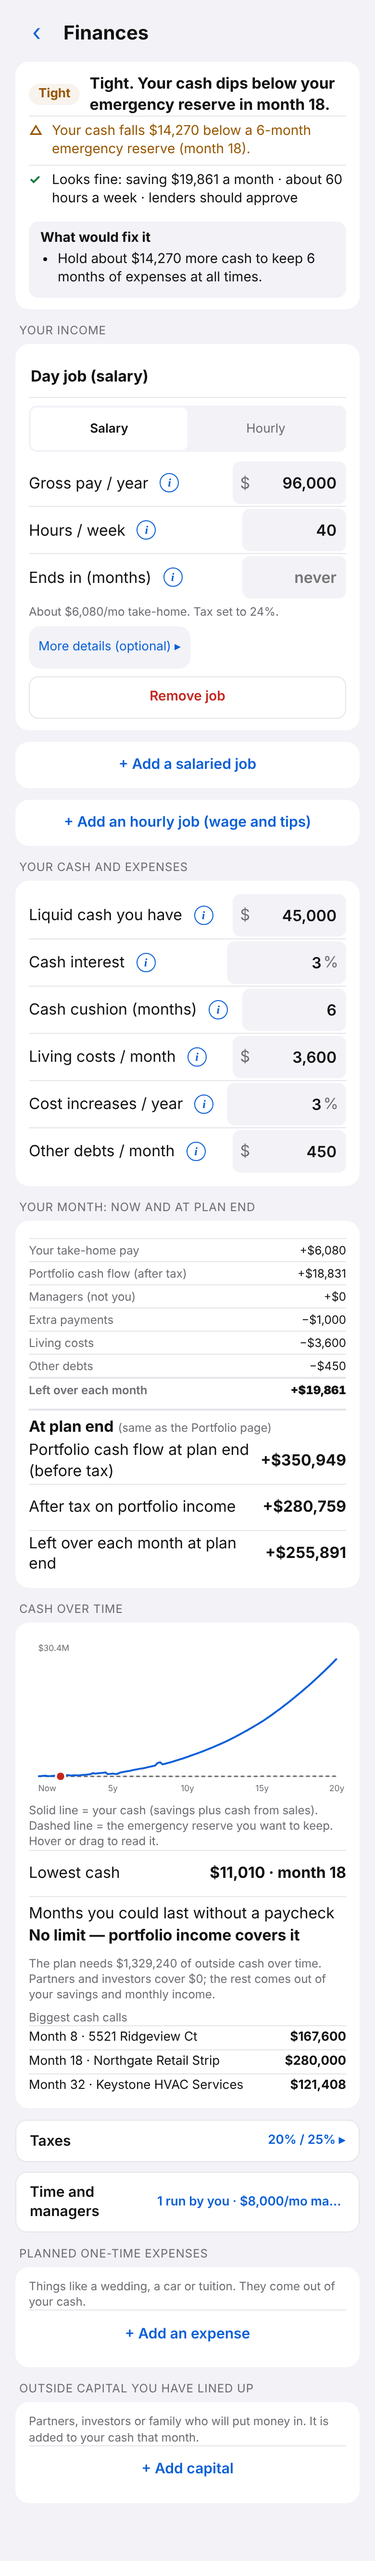
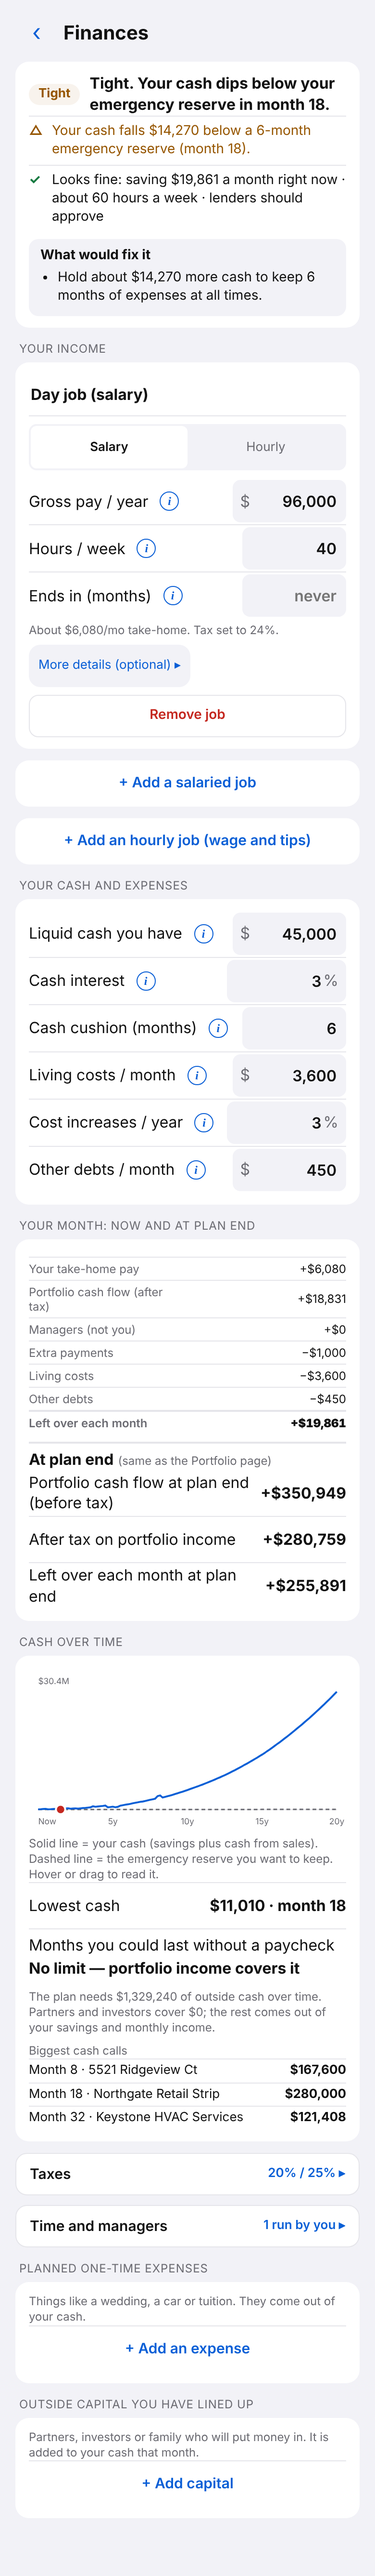
Design round 7: complete one-line loan descriptions, shorter summaries, clipped text fixes
Claude-Session: https://claude.ai/code/session_01T1SyQgdTcpALEohR2VebD5

diff --git a/prototype/v4/artifact.html b/prototype/v4/artifact.html
@@ -212,6 +212,12 @@ table.cmp td:first-child{white-space:nowrap}
 [data-testid=confirm-add]{position:sticky;bottom:12px;z-index:5;box-shadow:0 4px 14px rgba(0,0,0,.18)}
 .sec.cs .cx{white-space:nowrap;overflow:hidden;text-overflow:ellipsis;max-width:60%}
 
+.src.missing{color:var(--ink);opacity:.75}
+.row .pay{font-size:12px}.row .pay .tag{font-size:10px;margin-left:0;margin-right:4px}
+table.cmp td:first-child{white-space:normal;width:44%}
+select.notarget{max-width:9em}
+.lst .loanopt{padding-bottom:12px}[data-testid=loan-options]{padding-bottom:16px}
+
 </style>
 <main id="app" aria-live="polite"></main>
 <script>
@@ -488,7 +494,7 @@ table.cmp td:first-child{white-space:nowrap}
       reasons.push({ sev: 'bad', text: 'You run out of cash in month ' + firstShort + ' and would be about ' + money(short) + ' short at the lowest point (month ' + minM + ').' });
       fixes.push('Line up at least ' + money(short) + ' more (partners, investors, family) before month ' + firstShort + (c && c.assets.length ? ', when ' + c.assets.join(' and ') + ' closes' : '') + ', or push those purchases later.'); }
     if (R.net[0] < -0.5) { if (status === 'yes') status = 'tight'; reasons.push({ sev: 'warn', text: 'You spend ' + money(-R.net[0]) + ' a month more than you bring in right now.' }); reasons[reasons.length - 1].short = 'You spend more than you earn each month.'; fixes.push('Close the ' + money(-R.net[0]) + '/mo gap: raise income, cut living costs, or trim extra payments (' + money(R.extra[0]) + '/mo now).'); }
-    else reasons.push({ sev: 'ok', short: 'saving ' + money(R.net[0]) + ' a month', text: 'You save about ' + money(R.net[0]) + ' a month after living costs, debts and extra payments.' });
+    else reasons.push({ sev: 'ok', short: 'saving ' + money(R.net[0]) + ' a month right now', text: 'You save about ' + money(R.net[0]) + ' a month after living costs, debts and extra payments.' });
     let peakH = 0, peakHM = 0; for (let t = 0; t <= T; t++) if (R.hours[t] > peakH) { peakH = R.hours[t]; peakHM = t; }
     const peakBiz = Math.max.apply(null, R.nBiz), gmMax = Math.max.apply(null, R.gm);
     if (peakH > 70) { if (status === 'yes') status = 'tight'; reasons.push({ sev: 'warn', short: 'The hours do not fit in a week around month ' + peakHM + '.', text: 'At the busiest point (month ' + peakHM + ') you would work about ' + Math.round(peakH) + ' hours a week between your job and running ' + Math.min(p.operating, peakBiz) + ' business(es) yourself.' }); fixes.push('Hire a general manager for a business, drop a job, or sell a business sooner. Each manager costs about ' + money(p.gmMonthly) + '/mo.'); }
@@ -749,7 +755,7 @@ table.cmp td:first-child{white-space:nowrap}
 
   /* ---------- reusable bits ---------- */
   const field = (label, p, val, o = {}) => `<label class="f ${o.calc ? 'calc' : ''}"><span class="lb">${label}${infoBtn(o.info || GL.LABEL[label])}${o.calc ? ' <i class="auto" title="calculated from your other numbers — tap to override">auto</i>' : ''}</span><span class="iw">${o.pre ? `<em>${o.pre}</em>` : ''}<input inputmode="decimal" data-p="${p}" data-k="${p}" aria-label="${esc(label)}" ${o.ro ? 'readonly tabindex="-1"' : ''} ${o.ph ? 'placeholder="' + esc(o.ph) + '"' : ''} value="${val}">${o.suf ? `<em>${o.suf}</em>` : ''}</span></label>`;
-  const targetSel = (h) => `<select data-sel="${h.id}" class="${h.target ? '' : 'notarget'}" aria-label="Line of credit on ${esc(h.addr)} funds">${'<option value="">None · tap to choose</option>' + S.houses.filter((x) => x.id !== h.id).map((x) => `<option value="${x.id}" ${h.target === x.id ? 'selected' : ''}>${esc(x.addr)}</option>`).join('')}</select>`;
+  const targetSel = (h) => `<select data-sel="${h.id}" class="${h.target ? '' : 'notarget'}" aria-label="Line of credit on ${esc(h.addr)} funds">${'<option value="">Choose…</option>' + S.houses.filter((x) => x.id !== h.id).map((x) => `<option value="${x.id}" ${h.target === x.id ? 'selected' : ''}>${esc(x.addr)}</option>`).join('')}</select>`;
   const kpi = (id, label, val, sub, cls, sm) => `<div class="kpi ${sm ? 'sm' : ''}"><small>${label}${infoBtn(GL.LABEL[label])}</small><b class="${cls || ''}" data-testid="${id}" data-k="${id}">${val}</b>${sub ? `<span class="sub">${sub}</span>` : ''}</div>`;
 
   const CDEF = {};
@@ -832,7 +838,7 @@ table.cmp td:first-child{white-space:nowrap}
     const soldN = S.houses.filter((h) => pl.exits[h.id] && pl.sellAt[h.id] <= pl.planM).length;
     const breakdown = `<table class="cmp" data-testid="breakdown"><thead><tr><th></th><th>Value</th><th>Equity</th><th>Cash flow/mo</th></tr></thead><tbody>
       ${['house', 'commercial', 'business'].map((tp) => { const o = bt(tp); return o.n ? bRow(TPL[tp] + ' (' + o.n + ')', o) : ''; }).join('')}
-      ${sn.cash > 0.5 ? bRow('Cash from selling' + (soldN ? ' (' + soldN + ' assets)' : ''), { value: sn.cash, equity: sn.cash, cf: 0 }) : ''}
+      ${sn.cash > 0.5 ? bRow('Sold' + (soldN ? ' (' + soldN + ')' : ''), { value: sn.cash, equity: sn.cash, cf: 0 }) : ''}
       ${bRow('Portfolio', { value: pl.snap.reduce((a, x) => a + x.value, 0), equity: sn.nw, cf: sn.cf }, 'tot')}</tbody></table>`;
     const warn = pl.unfunded.length ? `<div class="warnbox">⚠ ${pl.unfunded.length} planned asset${pl.unfunded.length > 1 ? 's are' : ' is'} never funded under the current numbers.</div>` : '';
     const health = pl.worst.dti > g.dti ? `<div class="warnbox">⚠ Debt-to-income peaks at ${r(pl.worst.dti)}% in ${mo(pl.worst.month)} (limit ${g.dti}%).</div>` : '';
@@ -848,7 +854,7 @@ table.cmp td:first-child{white-space:nowrap}
     ${undo ? `<div class="warnbox okbox" data-testid="undo-banner">Removed ${esc(undo.label)}. <button class="chip link" data-undo>Undo</button></div>` : ''}
     ${storageOK ? '' : '<div class="warnbox">⚠ Storage is unavailable, so changes will not be saved. Export a backup from Assumptions.</div>'}
     <section class="card" data-testid="summary"><div class="kg">
-      ${kpi('kpi-networth', 'Net worth', $f(sn.nw), `${n} assets · projected ${yrs} yr out${sn.cash > 0.5 ? ' · incl. ' + $c(sn.cash) + ' from sales' : ''}`)}
+      ${kpi('kpi-networth', 'Net worth', $f(sn.nw), `${n} assets · ${yrs}-yr plan${sn.cash > 0.5 ? ' · incl. ' + $c(sn.cash) + ' from sales' : ''}`)}
       ${kpi('kpi-monthly', 'Total monthly payments', $f(sn.monthly), sn.extra > 0.5 ? `incl. ${$f(sn.extra)} extra` : 'at plan end · sum of the rows below')}
       ${kpi('kpi-cashflow', 'Cash flow / mo', $s(sn.cf), sn.extra > 0.5 ? `${$s(sn.cfx)} after extra` : 'before tax · at plan end', sn.cf < 0 ? 'bad' : '', 1)}
       ${kpi('kpi-dscr', 'DSCR', r(sn.dscr, 2), sn.dscr >= 1.25 ? 'income ÷ loan payments (1.25+ is healthy)' : sn.dscr >= 1 ? 'thin (1.25+ is healthy)' : 'below 1.0', sn.dscr && sn.dscr < 1 ? 'bad' : '', 1)}</div>
@@ -904,11 +910,11 @@ table.cmp td:first-child{white-space:nowrap}
     ${h.listingUrl ? `<p class="note" style="margin:10px 4px 0">Imported from a listing${h.info && h.info.beds ? ' · ' + h.info.beds + ' bd / ' + h.info.baths + ' ba · ' + (h.info.sqft || '?') + ' sqft' : ''}.</p>` : ''}
     <div class="sec"><span>Purchase · <i class="auto">auto</i> = calculated${infoBtn('auto')}</span></div><section class="card">${field(LB.price, P + 'price', grp(h.price), { pre: '$' })}${field('Down payment', P + 'dp', r(h.dp, 2), { suf: '%' })}${field('Down payment $', P + 'down', grp(v.down), { pre: '$', calc: 1 })}${field('Loan amount', P + 'loan', grp(v.L), { pre: '$', calc: 1, ro: 1 })}${field(LB.growth, P + 'growth', r(v.growth, 2), { suf: '%' })}
       ${type === 'commercial' ? field('Cap rate', P + 'caprate', r(v.capRate, 1), { suf: '%', calc: 1, ro: 1 }) : ''}${type === 'business' ? field('Price ÷ yearly profit', P + 'mult', r(v.multiple, 1), { suf: '×', calc: 1, ro: 1 }) : ''}</section>
-    ${colSec('loan', 'Loan', (lo ? lo.name.replace(/\s*\(.*\)/, '') : 'Custom') + ' · ' + r(h.rate, 2) + '%', `<section class="card">${loanSel}${lo || h.io ? `<p class="note">${lo ? esc(lo.note) + ' ' : ''}${h.io ? 'Interest-only: extra payments reduce the balance. Balloon at maturity is not modeled.' : ''}</p>` : '<p class="note">Custom terms. Pick a loan option to auto-fill them.</p>'}${h.ownerOcc ? '<span class="chip warnchip" data-testid="owner-occ">You must live here (owner-occupied)</span>' : ''}${h.loanId === 'k203' && h.capex > 75000 ? '<p class="note" data-testid="k203-cap">⚠ Over the $75,000 Limited 203(k) cap. This rehab needs a Standard 203(k) with a HUD consultant.</p>' : ''}
+    ${colSec('loan', 'Loan option', (lo ? lo.name.replace(/\s*\(.*\)/, '') : 'Custom') + ' · ' + r(h.rate, 2) + '% · ' + r(h.term / 12, 0) + ' yr', `<section class="card">${loanSel}${lo || h.io ? `<p class="note">${lo ? esc(lo.note) + ' ' : ''}${h.io ? 'Interest-only: extra payments reduce the balance. Balloon at maturity is not modeled.' : ''}</p>` : '<p class="note">Custom terms. Pick a loan option to auto-fill them.</p>'}${h.ownerOcc ? '<span class="chip warnchip" data-testid="owner-occ">You must live here (owner-occupied)</span>' : ''}${h.loanId === 'k203' && h.capex > 75000 ? '<p class="note" data-testid="k203-cap">⚠ Over the $75,000 Limited 203(k) cap. This rehab needs a Standard 203(k) with a HUD consultant.</p>' : ''}
       ${field('Interest rate', P + 'rate', r(h.rate, 3), { suf: '%' })}${field('Term (years)', P + 'termY', r(h.term / 12, 2))}${field('Closing costs', P + 'closingPct', r(h.closingPct == null ? g.closing : h.closingPct, 2), { suf: '%' })}${field('Extra / month', P + 'extra', grp(v.X), { pre: '$', calc: h.driver === 'months' && !!t })}${field('Paid off in (months)', P + 'payoff', isFinite(v.payoff) ? v.payoff : '', { calc: 1 })}${field('Other liens', P + 'liens', grp(h.liens), { pre: '$' })}
       <p class="note">${isFinite(v.payoff) ? `Paid off in ${mo(v.payoff)}. ` : h.io ? 'Not paid off until you refinance or sell. ' : 'Payment does not cover interest. '}${v.mip > 0 ? 'Includes ' + $f(v.mip) + '/mo mortgage insurance. ' : ''}Debt now: ${$f(debt)} (${r((debt / (v.valueNow || h.price)) * 100)}% of today's value).${v.cltvAtLoc != null ? ` When its line of credit opens: ${r(v.cltvAtLoc)}% (cap ${g.cap}%).` : ''}</p>${v.cltvAtLoc != null && v.cltvAtLoc > g.cap + 0.01 ? '<span class="chip warnchip">Over the debt cap</span>' : ''}</section>`, true)}
     ${colSec('rent', LB.sec, type === 'business' ? 'profit ' + $f(h.rent) : 'rent ' + $f(h.rent) + ' · costs ' + $f(h.tax + h.ins + h.hoa), `<section class="card">${income}</section>`, true)}
-    ${colSec('loc', 'Line of credit strategy', t ? 'funds ' + t.addr + ' · opens ' + (isFinite(p0 + v.locM) ? mm(p0 + v.locM) : 'never') : 'not set', `<section class="card"><div class="f stack"><span class="lb">Funds</span>${targetSel(h)}</div>
+    ${colSec('loc', 'Line of credit strategy', t ? 'opens ' + (isFinite(p0 + v.locM) ? mm(p0 + v.locM) : 'never') : 'not set', `<section class="card"><div class="f stack"><span class="lb">Funds</span>${targetSel(h)}</div>
       ${t ? `${field('Cash needed', P + 'need', grp(v.D), { pre: '$', calc: 1, ro: 1 })}${field('Months until LOC', P + 'wait', isFinite(v.locM) ? v.locM : '', { calc: h.driver === 'extra' })}
       <div class="f"><span class="lb">Opens (from today)</span><b>${isFinite(p0 + v.locM) ? mm(p0 + v.locM) : 'never'}</b></div>
       ${v.infeasible ? '<p class="note">⚠ That wait is not reachable, even with the loan fully paid.</p>' : ''}${a.cls === 'warn' || a.cls === 'bad' ? `<span class="chip warnchip" title="${esc(a.why || '')}">Debt-to-income ${a.cls === 'bad' ? 'over' : 'near'} your limit when ${esc(t.addr)} closes</span>` : ''}${sooner > 0 ? `<span class="chip">+$100/mo → ${sooner} mo sooner</span>` : ''}` : '<p class="note">Pick the asset this line of credit will fund.</p>'}</section>`, true)}
@@ -968,7 +974,7 @@ table.cmp td:first-child{white-space:nowrap}
       <p class="note" data-testid="funding-line">The plan needs ${$f(pl.outsideTotal)} of outside cash over time. Partners and investors cover ${$f(Math.min(k.totalOutside, k.capitalTotal))}; the rest comes out of your savings and monthly income.</p>
       ${calls ? `<p class="note" style="margin-top:8px">Biggest cash calls</p>${calls}` : ''}</section>
     ${colSec('fin-tax', 'Taxes', p.portfolioTaxPct + '% / ' + p.salesTaxPct + '%', `<section class="card">${field('Tax on portfolio income', 'p.portfolioTaxPct', r(p.portfolioTaxPct, 1), { suf: '%' })}${field('Tax on gains when you sell', 'p.salesTaxPct', r(p.salesTaxPct, 1), { suf: '%' })}<p class="note">Rough effective rates. Short-term gains from flips are taxed like ordinary income.</p></section>`, true)}
-    ${colSec('fin-time', 'Time and managers', p.operating + ' run by you · ' + $f(p.gmMonthly) + '/mo manager', `<section class="card">${field('Businesses you run yourself', 'p.operating', p.operating)}${field('Hours / week each takes', 'p.bizHours', r(p.bizHours, 0))}${field('Manager pay per other business / mo', 'p.gmMonthly', grp(p.gmMonthly), { pre: '$' })}<p class="note">A business profit figure assumes the owner does the work. Businesses beyond the ones you run need a paid manager.</p></section>`, true)}
+    ${colSec('fin-time', 'Time and managers', p.operating + ' run by you', `<section class="card">${field('Businesses you run yourself', 'p.operating', p.operating)}${field('Hours / week each takes', 'p.bizHours', r(p.bizHours, 0))}${field('Manager pay per other business / mo', 'p.gmMonthly', grp(p.gmMonthly), { pre: '$' })}<p class="note">A business profit figure assumes the owner does the work. Businesses beyond the ones you run need a paid manager.</p></section>`, true)}
     <div class="sec">Planned one-time expenses</div><section class="card">${p.planned.length ? p.planned.map((it) => listRow('pl', it, 'Expense')).join('') : '<p class="note" style="margin:0">Things like a wedding, a car or tuition. They come out of your cash.</p>'}<button class="addrow" data-addplanned data-testid="add-planned">+ Add an expense</button></section>
     <div class="sec">Outside capital you have lined up</div><section class="card">${p.capital.length ? p.capital.map((it) => listRow('cap', it, 'Capital')).join('') : '<p class="note" style="margin:0">Partners, investors or family who will put money in. It is added to your cash that month.</p>'}<button class="addrow" data-addcap data-testid="add-capital">+ Add capital</button></section>`;
   }
@@ -979,7 +985,7 @@ table.cmp td:first-child{white-space:nowrap}
     const blurb = { house: 'A single-family rental or primary home.', commercial: 'Retail, office, storage or industrial. Valued on rent and cap rate.', business: 'An operating business you buy. Valued on owner profit and growth.' }[tp];
     return `<div class="top"><button class="ic" data-go="" aria-label="Cancel and go back">‹</button><h2>Add to portfolio</h2></div>
     <section class="card"><div class="seg" role="tablist">${['house', 'commercial', 'business'].map((x) => `<button data-addtype="${x}" class="${x === tp ? 'on' : ''}">${TL[x]}</button>`).join('')}</div><p class="note">${blurb} You will set the price and income on the next screen.</p>${tp === 'house' ? '<button class="linkbtn" data-go="import/new">Have a Zillow listing? Import it from a file</button>' : ''}</section>
-    <div class="sec">Pick a loan option</div><section class="card" data-testid="loan-options">${(() => { const one = (l) => `<div class="loanrow"><button class="loanopt ${l.id === sel ? 'on' : ''}" data-pickloan="${l.id}" aria-pressed="${l.id === sel}"><b>${esc(l.name.replace(/\s*\(you live there\)/i, ''))}</b><span>${l.dp >= 100 ? 'No loan · pay the full price' : l.dp + '% down · ' + l.rate + '% · ' + (l.io ? 'interest-only, ' : '') + r(l.term / 12, 1) + ' yr'}${l.finRehab ? ' · rehab financed' : ''}</span>${l.dp >= 100 ? '' : `<small>${esc(l.note)}</small>`}</button>${infoBtn(GL.LOAN[l.id])}</div>`; const inv = list.filter((l) => !l.ownerOcc), live = list.filter((l) => l.ownerOcc); return inv.map(one).join('') + (live.length ? `<p class="note" style="margin:10px 4px 2px"><b>If you will live there</b><br>FHA and 203(k) loans need you to move in.</p>` + live.map(one).join('') : ''); })()}</section>
+    <div class="sec">Pick a loan option</div><section class="card" data-testid="loan-options">${(() => { const one = (l) => `<div class="loanrow"><button class="loanopt ${l.id === sel ? 'on' : ''}" data-pickloan="${l.id}" aria-pressed="${l.id === sel}"><b>${esc(l.name.replace(/\s*\(you live there\)/i, ''))}</b><span>${l.dp >= 100 ? 'No loan · pay the full price' : l.dp + '% down · ' + l.rate + '% · ' + (l.io ? 'interest-only, ' : '') + r(l.term / 12, 1) + ' yr'}</span>${l.dp >= 100 ? '' : `<small>${esc(l.note.split(/(?<=\.)\s/)[0])}</small>`}</button>${infoBtn(GL.LOAN[l.id])}</div>`; const inv = list.filter((l) => !l.ownerOcc), live = list.filter((l) => l.ownerOcc); return inv.map(one).join('') + (live.length ? `<p class="note" style="margin:10px 4px 2px"><b>If you will live there</b><br>FHA and 203(k) loans need you to move in.</p>` + live.map(one).join('') : ''); })()}</section>
     <button class="btn" style="width:100%" data-confirm-add="${tp}|${sel}" data-testid="confirm-add">Add ${TL[tp].toLowerCase()}</button>`;
   }
 
@@ -989,7 +995,7 @@ table.cmp td:first-child{white-space:nowrap}
     return `<div class="top"><button class="ic" data-go="" aria-label="Back">‹</button><h2>Assumptions</h2></div>
     <p class="note" style="margin:0 4px 6px">Defaults work for most people. Change them when you know your lender.</p>
     <div class="sec">Borrowing</div><section class="card">${F('Max loan vs value', 'cap', { suf: '%' })}${F('Appraisal cut', 'haircut', { suf: '%' })}${F('Closing costs', 'closing', { suf: '%' })}${F('Line of credit rate', 'hrate', { suf: '%' })}<p class="note">Appraisal cut: what lenders subtract from a home's value. Rent counted: the share of rent lenders accept as income.</p></section>
-    <div class="sec">Who helps you qualify</div><section class="card">${F('Co-signer 1 / yr', 'p1', { pre: '$' })}${F('Co-signer 2 / yr', 'p2', { pre: '$' })}<p class="note">Co-signers help you qualify for loans. Their income counts toward the lender's limit.</p>${F('Debt-to-income limit', 'dti', { suf: '%' })}${F('Rent counted', 'rentCount', { suf: '%' })}${F('Other monthly debts', 'otherDebt', { pre: '$' })}</section>
+    <div class="sec">Who helps you qualify</div><section class="card">${F('Co-signer 1 / yr', 'p1', { pre: '$' })}${F('Co-signer 2 / yr', 'p2', { pre: '$' })}<p class="note">Leave 0 if none. Co-signers help you qualify for loans. Their income counts toward the lender's limit.</p>${F('Debt-to-income limit', 'dti', { suf: '%' })}${F('Rent counted', 'rentCount', { suf: '%' })}${F('Other monthly debts', 'otherDebt', { pre: '$' })}</section>
     <div class="sec">Operating costs</div><section class="card">${F('Vacancy', 'vac', { suf: '%' })}${F('Management (of rent)', 'mgmt', { suf: '%' })}${F('Repairs / yr', 'maint', { suf: '%' })}${F('Growth / yr', 'appr', { suf: '%' })}${F('Projection length (years)', 'planYears', {})}</section>
     ${colSec('backup', 'Backup and restore', 'on this device', `<section class="card">
       ${notice ? `<div class="warnbox">${esc(notice)}</div>` : ''}
@@ -1035,7 +1041,7 @@ Money is US dollars as plain numbers. taxAnnual and insuranceAnnual are per YEAR
     <section class="card"><p class="note" style="margin:0 0 6px">Takes about a minute. Claude reads the listing for you.</p><ol class="steps"><li>Copy the prompt.</li><li>Paste it into a Claude chat with your Zillow link. If Claude cannot open the page, paste the listing text or screenshots instead.</li><li>Save Claude's reply as a <code>.json</code> file and choose it below.</li></ol>
       <button class="btn plain" data-copyprompt data-testid="copy-prompt">Copy Claude prompt</button><p class="note" id="cpm"></p>
       <details><summary class="note" style="font-size:14px;padding:8px 0">Show the prompt</summary><pre class="pre">${esc(PROMPT)}</pre></details>
-      <label class="btn filebtn" style="margin-top:8px">Choose listing file<input type="file" accept=".json,application/json,text/plain" hidden data-listing-file data-testid="import-listing-file" aria-label="Choose listing file"></label>
+      <label class="btn ${res && res.ok ? 'plain ' : ''}filebtn" style="margin-top:8px">${res && res.ok ? 'Choose a different file' : 'Choose listing file'}<input type="file" accept=".json,application/json,text/plain" hidden data-listing-file data-testid="import-listing-file" aria-label="Choose listing file"></label>
       <button class="linkbtn" data-togglepaste>${UI.paste ? 'Hide pasted text' : 'Or paste the file contents'}</button>
       ${UI.paste ? `<textarea data-listing-text id="lt" rows="4" aria-label="Paste the listing file contents" placeholder="Paste the JSON Claude gave you"></textarea><button class="btn plain" data-read-listing>Read pasted text</button>` : ''}</section>${preview}`;
   }

diff --git a/prototype/v4/app.js b/prototype/v4/app.js
@@ -36,7 +36,7 @@
 
   /* ---------- reusable bits ---------- */
   const field = (label, p, val, o = {}) => `<label class="f ${o.calc ? 'calc' : ''}"><span class="lb">${label}${infoBtn(o.info || GL.LABEL[label])}${o.calc ? ' <i class="auto" title="calculated from your other numbers — tap to override">auto</i>' : ''}</span><span class="iw">${o.pre ? `<em>${o.pre}</em>` : ''}<input inputmode="decimal" data-p="${p}" data-k="${p}" aria-label="${esc(label)}" ${o.ro ? 'readonly tabindex="-1"' : ''} ${o.ph ? 'placeholder="' + esc(o.ph) + '"' : ''} value="${val}">${o.suf ? `<em>${o.suf}</em>` : ''}</span></label>`;
-  const targetSel = (h) => `<select data-sel="${h.id}" class="${h.target ? '' : 'notarget'}" aria-label="Line of credit on ${esc(h.addr)} funds">${'<option value="">None · tap to choose</option>' + S.houses.filter((x) => x.id !== h.id).map((x) => `<option value="${x.id}" ${h.target === x.id ? 'selected' : ''}>${esc(x.addr)}</option>`).join('')}</select>`;
+  const targetSel = (h) => `<select data-sel="${h.id}" class="${h.target ? '' : 'notarget'}" aria-label="Line of credit on ${esc(h.addr)} funds">${'<option value="">Choose…</option>' + S.houses.filter((x) => x.id !== h.id).map((x) => `<option value="${x.id}" ${h.target === x.id ? 'selected' : ''}>${esc(x.addr)}</option>`).join('')}</select>`;
   const kpi = (id, label, val, sub, cls, sm) => `<div class="kpi ${sm ? 'sm' : ''}"><small>${label}${infoBtn(GL.LABEL[label])}</small><b class="${cls || ''}" data-testid="${id}" data-k="${id}">${val}</b>${sub ? `<span class="sub">${sub}</span>` : ''}</div>`;
 
   const CDEF = {};
@@ -119,7 +119,7 @@
     const soldN = S.houses.filter((h) => pl.exits[h.id] && pl.sellAt[h.id] <= pl.planM).length;
     const breakdown = `<table class="cmp" data-testid="breakdown"><thead><tr><th></th><th>Value</th><th>Equity</th><th>Cash flow/mo</th></tr></thead><tbody>
       ${['house', 'commercial', 'business'].map((tp) => { const o = bt(tp); return o.n ? bRow(TPL[tp] + ' (' + o.n + ')', o) : ''; }).join('')}
-      ${sn.cash > 0.5 ? bRow('Cash from selling' + (soldN ? ' (' + soldN + ' assets)' : ''), { value: sn.cash, equity: sn.cash, cf: 0 }) : ''}
+      ${sn.cash > 0.5 ? bRow('Sold' + (soldN ? ' (' + soldN + ')' : ''), { value: sn.cash, equity: sn.cash, cf: 0 }) : ''}
       ${bRow('Portfolio', { value: pl.snap.reduce((a, x) => a + x.value, 0), equity: sn.nw, cf: sn.cf }, 'tot')}</tbody></table>`;
     const warn = pl.unfunded.length ? `<div class="warnbox">⚠ ${pl.unfunded.length} planned asset${pl.unfunded.length > 1 ? 's are' : ' is'} never funded under the current numbers.</div>` : '';
     const health = pl.worst.dti > g.dti ? `<div class="warnbox">⚠ Debt-to-income peaks at ${r(pl.worst.dti)}% in ${mo(pl.worst.month)} (limit ${g.dti}%).</div>` : '';
@@ -135,7 +135,7 @@
     ${undo ? `<div class="warnbox okbox" data-testid="undo-banner">Removed ${esc(undo.label)}. <button class="chip link" data-undo>Undo</button></div>` : ''}
     ${storageOK ? '' : '<div class="warnbox">⚠ Storage is unavailable, so changes will not be saved. Export a backup from Assumptions.</div>'}
     <section class="card" data-testid="summary"><div class="kg">
-      ${kpi('kpi-networth', 'Net worth', $f(sn.nw), `${n} assets · projected ${yrs} yr out${sn.cash > 0.5 ? ' · incl. ' + $c(sn.cash) + ' from sales' : ''}`)}
+      ${kpi('kpi-networth', 'Net worth', $f(sn.nw), `${n} assets · ${yrs}-yr plan${sn.cash > 0.5 ? ' · incl. ' + $c(sn.cash) + ' from sales' : ''}`)}
       ${kpi('kpi-monthly', 'Total monthly payments', $f(sn.monthly), sn.extra > 0.5 ? `incl. ${$f(sn.extra)} extra` : 'at plan end · sum of the rows below')}
       ${kpi('kpi-cashflow', 'Cash flow / mo', $s(sn.cf), sn.extra > 0.5 ? `${$s(sn.cfx)} after extra` : 'before tax · at plan end', sn.cf < 0 ? 'bad' : '', 1)}
       ${kpi('kpi-dscr', 'DSCR', r(sn.dscr, 2), sn.dscr >= 1.25 ? 'income ÷ loan payments (1.25+ is healthy)' : sn.dscr >= 1 ? 'thin (1.25+ is healthy)' : 'below 1.0', sn.dscr && sn.dscr < 1 ? 'bad' : '', 1)}</div>
@@ -191,11 +191,11 @@
     ${h.listingUrl ? `<p class="note" style="margin:10px 4px 0">Imported from a listing${h.info && h.info.beds ? ' · ' + h.info.beds + ' bd / ' + h.info.baths + ' ba · ' + (h.info.sqft || '?') + ' sqft' : ''}.</p>` : ''}
     <div class="sec"><span>Purchase · <i class="auto">auto</i> = calculated${infoBtn('auto')}</span></div><section class="card">${field(LB.price, P + 'price', grp(h.price), { pre: '$' })}${field('Down payment', P + 'dp', r(h.dp, 2), { suf: '%' })}${field('Down payment $', P + 'down', grp(v.down), { pre: '$', calc: 1 })}${field('Loan amount', P + 'loan', grp(v.L), { pre: '$', calc: 1, ro: 1 })}${field(LB.growth, P + 'growth', r(v.growth, 2), { suf: '%' })}
       ${type === 'commercial' ? field('Cap rate', P + 'caprate', r(v.capRate, 1), { suf: '%', calc: 1, ro: 1 }) : ''}${type === 'business' ? field('Price ÷ yearly profit', P + 'mult', r(v.multiple, 1), { suf: '×', calc: 1, ro: 1 }) : ''}</section>
-    ${colSec('loan', 'Loan', (lo ? lo.name.replace(/\s*\(.*\)/, '') : 'Custom') + ' · ' + r(h.rate, 2) + '%', `<section class="card">${loanSel}${lo || h.io ? `<p class="note">${lo ? esc(lo.note) + ' ' : ''}${h.io ? 'Interest-only: extra payments reduce the balance. Balloon at maturity is not modeled.' : ''}</p>` : '<p class="note">Custom terms. Pick a loan option to auto-fill them.</p>'}${h.ownerOcc ? '<span class="chip warnchip" data-testid="owner-occ">You must live here (owner-occupied)</span>' : ''}${h.loanId === 'k203' && h.capex > 75000 ? '<p class="note" data-testid="k203-cap">⚠ Over the $75,000 Limited 203(k) cap. This rehab needs a Standard 203(k) with a HUD consultant.</p>' : ''}
+    ${colSec('loan', 'Loan option', (lo ? lo.name.replace(/\s*\(.*\)/, '') : 'Custom') + ' · ' + r(h.rate, 2) + '% · ' + r(h.term / 12, 0) + ' yr', `<section class="card">${loanSel}${lo || h.io ? `<p class="note">${lo ? esc(lo.note) + ' ' : ''}${h.io ? 'Interest-only: extra payments reduce the balance. Balloon at maturity is not modeled.' : ''}</p>` : '<p class="note">Custom terms. Pick a loan option to auto-fill them.</p>'}${h.ownerOcc ? '<span class="chip warnchip" data-testid="owner-occ">You must live here (owner-occupied)</span>' : ''}${h.loanId === 'k203' && h.capex > 75000 ? '<p class="note" data-testid="k203-cap">⚠ Over the $75,000 Limited 203(k) cap. This rehab needs a Standard 203(k) with a HUD consultant.</p>' : ''}
       ${field('Interest rate', P + 'rate', r(h.rate, 3), { suf: '%' })}${field('Term (years)', P + 'termY', r(h.term / 12, 2))}${field('Closing costs', P + 'closingPct', r(h.closingPct == null ? g.closing : h.closingPct, 2), { suf: '%' })}${field('Extra / month', P + 'extra', grp(v.X), { pre: '$', calc: h.driver === 'months' && !!t })}${field('Paid off in (months)', P + 'payoff', isFinite(v.payoff) ? v.payoff : '', { calc: 1 })}${field('Other liens', P + 'liens', grp(h.liens), { pre: '$' })}
       <p class="note">${isFinite(v.payoff) ? `Paid off in ${mo(v.payoff)}. ` : h.io ? 'Not paid off until you refinance or sell. ' : 'Payment does not cover interest. '}${v.mip > 0 ? 'Includes ' + $f(v.mip) + '/mo mortgage insurance. ' : ''}Debt now: ${$f(debt)} (${r((debt / (v.valueNow || h.price)) * 100)}% of today's value).${v.cltvAtLoc != null ? ` When its line of credit opens: ${r(v.cltvAtLoc)}% (cap ${g.cap}%).` : ''}</p>${v.cltvAtLoc != null && v.cltvAtLoc > g.cap + 0.01 ? '<span class="chip warnchip">Over the debt cap</span>' : ''}</section>`, true)}
     ${colSec('rent', LB.sec, type === 'business' ? 'profit ' + $f(h.rent) : 'rent ' + $f(h.rent) + ' · costs ' + $f(h.tax + h.ins + h.hoa), `<section class="card">${income}</section>`, true)}
-    ${colSec('loc', 'Line of credit strategy', t ? 'funds ' + t.addr + ' · opens ' + (isFinite(p0 + v.locM) ? mm(p0 + v.locM) : 'never') : 'not set', `<section class="card"><div class="f stack"><span class="lb">Funds</span>${targetSel(h)}</div>
+    ${colSec('loc', 'Line of credit strategy', t ? 'opens ' + (isFinite(p0 + v.locM) ? mm(p0 + v.locM) : 'never') : 'not set', `<section class="card"><div class="f stack"><span class="lb">Funds</span>${targetSel(h)}</div>
       ${t ? `${field('Cash needed', P + 'need', grp(v.D), { pre: '$', calc: 1, ro: 1 })}${field('Months until LOC', P + 'wait', isFinite(v.locM) ? v.locM : '', { calc: h.driver === 'extra' })}
       <div class="f"><span class="lb">Opens (from today)</span><b>${isFinite(p0 + v.locM) ? mm(p0 + v.locM) : 'never'}</b></div>
       ${v.infeasible ? '<p class="note">⚠ That wait is not reachable, even with the loan fully paid.</p>' : ''}${a.cls === 'warn' || a.cls === 'bad' ? `<span class="chip warnchip" title="${esc(a.why || '')}">Debt-to-income ${a.cls === 'bad' ? 'over' : 'near'} your limit when ${esc(t.addr)} closes</span>` : ''}${sooner > 0 ? `<span class="chip">+$100/mo → ${sooner} mo sooner</span>` : ''}` : '<p class="note">Pick the asset this line of credit will fund.</p>'}</section>`, true)}
@@ -255,7 +255,7 @@
       <p class="note" data-testid="funding-line">The plan needs ${$f(pl.outsideTotal)} of outside cash over time. Partners and investors cover ${$f(Math.min(k.totalOutside, k.capitalTotal))}; the rest comes out of your savings and monthly income.</p>
       ${calls ? `<p class="note" style="margin-top:8px">Biggest cash calls</p>${calls}` : ''}</section>
     ${colSec('fin-tax', 'Taxes', p.portfolioTaxPct + '% / ' + p.salesTaxPct + '%', `<section class="card">${field('Tax on portfolio income', 'p.portfolioTaxPct', r(p.portfolioTaxPct, 1), { suf: '%' })}${field('Tax on gains when you sell', 'p.salesTaxPct', r(p.salesTaxPct, 1), { suf: '%' })}<p class="note">Rough effective rates. Short-term gains from flips are taxed like ordinary income.</p></section>`, true)}
-    ${colSec('fin-time', 'Time and managers', p.operating + ' run by you · ' + $f(p.gmMonthly) + '/mo manager', `<section class="card">${field('Businesses you run yourself', 'p.operating', p.operating)}${field('Hours / week each takes', 'p.bizHours', r(p.bizHours, 0))}${field('Manager pay per other business / mo', 'p.gmMonthly', grp(p.gmMonthly), { pre: '$' })}<p class="note">A business profit figure assumes the owner does the work. Businesses beyond the ones you run need a paid manager.</p></section>`, true)}
+    ${colSec('fin-time', 'Time and managers', p.operating + ' run by you', `<section class="card">${field('Businesses you run yourself', 'p.operating', p.operating)}${field('Hours / week each takes', 'p.bizHours', r(p.bizHours, 0))}${field('Manager pay per other business / mo', 'p.gmMonthly', grp(p.gmMonthly), { pre: '$' })}<p class="note">A business profit figure assumes the owner does the work. Businesses beyond the ones you run need a paid manager.</p></section>`, true)}
     <div class="sec">Planned one-time expenses</div><section class="card">${p.planned.length ? p.planned.map((it) => listRow('pl', it, 'Expense')).join('') : '<p class="note" style="margin:0">Things like a wedding, a car or tuition. They come out of your cash.</p>'}<button class="addrow" data-addplanned data-testid="add-planned">+ Add an expense</button></section>
     <div class="sec">Outside capital you have lined up</div><section class="card">${p.capital.length ? p.capital.map((it) => listRow('cap', it, 'Capital')).join('') : '<p class="note" style="margin:0">Partners, investors or family who will put money in. It is added to your cash that month.</p>'}<button class="addrow" data-addcap data-testid="add-capital">+ Add capital</button></section>`;
   }
@@ -266,7 +266,7 @@
     const blurb = { house: 'A single-family rental or primary home.', commercial: 'Retail, office, storage or industrial. Valued on rent and cap rate.', business: 'An operating business you buy. Valued on owner profit and growth.' }[tp];
     return `<div class="top"><button class="ic" data-go="" aria-label="Cancel and go back">‹</button><h2>Add to portfolio</h2></div>
     <section class="card"><div class="seg" role="tablist">${['house', 'commercial', 'business'].map((x) => `<button data-addtype="${x}" class="${x === tp ? 'on' : ''}">${TL[x]}</button>`).join('')}</div><p class="note">${blurb} You will set the price and income on the next screen.</p>${tp === 'house' ? '<button class="linkbtn" data-go="import/new">Have a Zillow listing? Import it from a file</button>' : ''}</section>
-    <div class="sec">Pick a loan option</div><section class="card" data-testid="loan-options">${(() => { const one = (l) => `<div class="loanrow"><button class="loanopt ${l.id === sel ? 'on' : ''}" data-pickloan="${l.id}" aria-pressed="${l.id === sel}"><b>${esc(l.name.replace(/\s*\(you live there\)/i, ''))}</b><span>${l.dp >= 100 ? 'No loan · pay the full price' : l.dp + '% down · ' + l.rate + '% · ' + (l.io ? 'interest-only, ' : '') + r(l.term / 12, 1) + ' yr'}${l.finRehab ? ' · rehab financed' : ''}</span>${l.dp >= 100 ? '' : `<small>${esc(l.note)}</small>`}</button>${infoBtn(GL.LOAN[l.id])}</div>`; const inv = list.filter((l) => !l.ownerOcc), live = list.filter((l) => l.ownerOcc); return inv.map(one).join('') + (live.length ? `<p class="note" style="margin:10px 4px 2px"><b>If you will live there</b><br>FHA and 203(k) loans need you to move in.</p>` + live.map(one).join('') : ''); })()}</section>
+    <div class="sec">Pick a loan option</div><section class="card" data-testid="loan-options">${(() => { const one = (l) => `<div class="loanrow"><button class="loanopt ${l.id === sel ? 'on' : ''}" data-pickloan="${l.id}" aria-pressed="${l.id === sel}"><b>${esc(l.name.replace(/\s*\(you live there\)/i, ''))}</b><span>${l.dp >= 100 ? 'No loan · pay the full price' : l.dp + '% down · ' + l.rate + '% · ' + (l.io ? 'interest-only, ' : '') + r(l.term / 12, 1) + ' yr'}</span>${l.dp >= 100 ? '' : `<small>${esc(l.note.split(/(?<=\.)\s/)[0])}</small>`}</button>${infoBtn(GL.LOAN[l.id])}</div>`; const inv = list.filter((l) => !l.ownerOcc), live = list.filter((l) => l.ownerOcc); return inv.map(one).join('') + (live.length ? `<p class="note" style="margin:10px 4px 2px"><b>If you will live there</b><br>FHA and 203(k) loans need you to move in.</p>` + live.map(one).join('') : ''); })()}</section>
     <button class="btn" style="width:100%" data-confirm-add="${tp}|${sel}" data-testid="confirm-add">Add ${TL[tp].toLowerCase()}</button>`;
   }
 
@@ -276,7 +276,7 @@
     return `<div class="top"><button class="ic" data-go="" aria-label="Back">‹</button><h2>Assumptions</h2></div>
     <p class="note" style="margin:0 4px 6px">Defaults work for most people. Change them when you know your lender.</p>
     <div class="sec">Borrowing</div><section class="card">${F('Max loan vs value', 'cap', { suf: '%' })}${F('Appraisal cut', 'haircut', { suf: '%' })}${F('Closing costs', 'closing', { suf: '%' })}${F('Line of credit rate', 'hrate', { suf: '%' })}<p class="note">Appraisal cut: what lenders subtract from a home's value. Rent counted: the share of rent lenders accept as income.</p></section>
-    <div class="sec">Who helps you qualify</div><section class="card">${F('Co-signer 1 / yr', 'p1', { pre: '$' })}${F('Co-signer 2 / yr', 'p2', { pre: '$' })}<p class="note">Co-signers help you qualify for loans. Their income counts toward the lender's limit.</p>${F('Debt-to-income limit', 'dti', { suf: '%' })}${F('Rent counted', 'rentCount', { suf: '%' })}${F('Other monthly debts', 'otherDebt', { pre: '$' })}</section>
+    <div class="sec">Who helps you qualify</div><section class="card">${F('Co-signer 1 / yr', 'p1', { pre: '$' })}${F('Co-signer 2 / yr', 'p2', { pre: '$' })}<p class="note">Leave 0 if none. Co-signers help you qualify for loans. Their income counts toward the lender's limit.</p>${F('Debt-to-income limit', 'dti', { suf: '%' })}${F('Rent counted', 'rentCount', { suf: '%' })}${F('Other monthly debts', 'otherDebt', { pre: '$' })}</section>
     <div class="sec">Operating costs</div><section class="card">${F('Vacancy', 'vac', { suf: '%' })}${F('Management (of rent)', 'mgmt', { suf: '%' })}${F('Repairs / yr', 'maint', { suf: '%' })}${F('Growth / yr', 'appr', { suf: '%' })}${F('Projection length (years)', 'planYears', {})}</section>
     ${colSec('backup', 'Backup and restore', 'on this device', `<section class="card">
       ${notice ? `<div class="warnbox">${esc(notice)}</div>` : ''}
@@ -322,7 +322,7 @@ Money is US dollars as plain numbers. taxAnnual and insuranceAnnual are per YEAR
     <section class="card"><p class="note" style="margin:0 0 6px">Takes about a minute. Claude reads the listing for you.</p><ol class="steps"><li>Copy the prompt.</li><li>Paste it into a Claude chat with your Zillow link. If Claude cannot open the page, paste the listing text or screenshots instead.</li><li>Save Claude's reply as a <code>.json</code> file and choose it below.</li></ol>
       <button class="btn plain" data-copyprompt data-testid="copy-prompt">Copy Claude prompt</button><p class="note" id="cpm"></p>
       <details><summary class="note" style="font-size:14px;padding:8px 0">Show the prompt</summary><pre class="pre">${esc(PROMPT)}</pre></details>
-      <label class="btn filebtn" style="margin-top:8px">Choose listing file<input type="file" accept=".json,application/json,text/plain" hidden data-listing-file data-testid="import-listing-file" aria-label="Choose listing file"></label>
+      <label class="btn ${res && res.ok ? 'plain ' : ''}filebtn" style="margin-top:8px">${res && res.ok ? 'Choose a different file' : 'Choose listing file'}<input type="file" accept=".json,application/json,text/plain" hidden data-listing-file data-testid="import-listing-file" aria-label="Choose listing file"></label>
       <button class="linkbtn" data-togglepaste>${UI.paste ? 'Hide pasted text' : 'Or paste the file contents'}</button>
       ${UI.paste ? `<textarea data-listing-text id="lt" rows="4" aria-label="Paste the listing file contents" placeholder="Paste the JSON Claude gave you"></textarea><button class="btn plain" data-read-listing>Read pasted text</button>` : ''}</section>${preview}`;
   }

diff --git a/prototype/v4/engine.js b/prototype/v4/engine.js
@@ -271,7 +271,7 @@
       reasons.push({ sev: 'bad', text: 'You run out of cash in month ' + firstShort + ' and would be about ' + money(short) + ' short at the lowest point (month ' + minM + ').' });
       fixes.push('Line up at least ' + money(short) + ' more (partners, investors, family) before month ' + firstShort + (c && c.assets.length ? ', when ' + c.assets.join(' and ') + ' closes' : '') + ', or push those purchases later.'); }
     if (R.net[0] < -0.5) { if (status === 'yes') status = 'tight'; reasons.push({ sev: 'warn', text: 'You spend ' + money(-R.net[0]) + ' a month more than you bring in right now.' }); reasons[reasons.length - 1].short = 'You spend more than you earn each month.'; fixes.push('Close the ' + money(-R.net[0]) + '/mo gap: raise income, cut living costs, or trim extra payments (' + money(R.extra[0]) + '/mo now).'); }
-    else reasons.push({ sev: 'ok', short: 'saving ' + money(R.net[0]) + ' a month', text: 'You save about ' + money(R.net[0]) + ' a month after living costs, debts and extra payments.' });
+    else reasons.push({ sev: 'ok', short: 'saving ' + money(R.net[0]) + ' a month right now', text: 'You save about ' + money(R.net[0]) + ' a month after living costs, debts and extra payments.' });
     let peakH = 0, peakHM = 0; for (let t = 0; t <= T; t++) if (R.hours[t] > peakH) { peakH = R.hours[t]; peakHM = t; }
     const peakBiz = Math.max.apply(null, R.nBiz), gmMax = Math.max.apply(null, R.gm);
     if (peakH > 70) { if (status === 'yes') status = 'tight'; reasons.push({ sev: 'warn', short: 'The hours do not fit in a week around month ' + peakHM + '.', text: 'At the busiest point (month ' + peakHM + ') you would work about ' + Math.round(peakH) + ' hours a week between your job and running ' + Math.min(p.operating, peakBiz) + ' business(es) yourself.' }); fixes.push('Hire a general manager for a business, drop a job, or sell a business sooner. Each manager costs about ' + money(p.gmMonthly) + '/mo.'); }

diff --git a/prototype/v4/style.css b/prototype/v4/style.css
@@ -208,3 +208,9 @@ table.cmp td:first-child{white-space:nowrap}
 .loanopt small{-webkit-line-clamp:1}
 [data-testid=confirm-add]{position:sticky;bottom:12px;z-index:5;box-shadow:0 4px 14px rgba(0,0,0,.18)}
 .sec.cs .cx{white-space:nowrap;overflow:hidden;text-overflow:ellipsis;max-width:60%}
+
+.src.missing{color:var(--ink);opacity:.75}
+.row .pay{font-size:12px}.row .pay .tag{font-size:10px;margin-left:0;margin-right:4px}
+table.cmp td:first-child{white-space:normal;width:44%}
+select.notarget{max-width:9em}
+.lst .loanopt{padding-bottom:12px}[data-testid=loan-options]{padding-bottom:16px}
